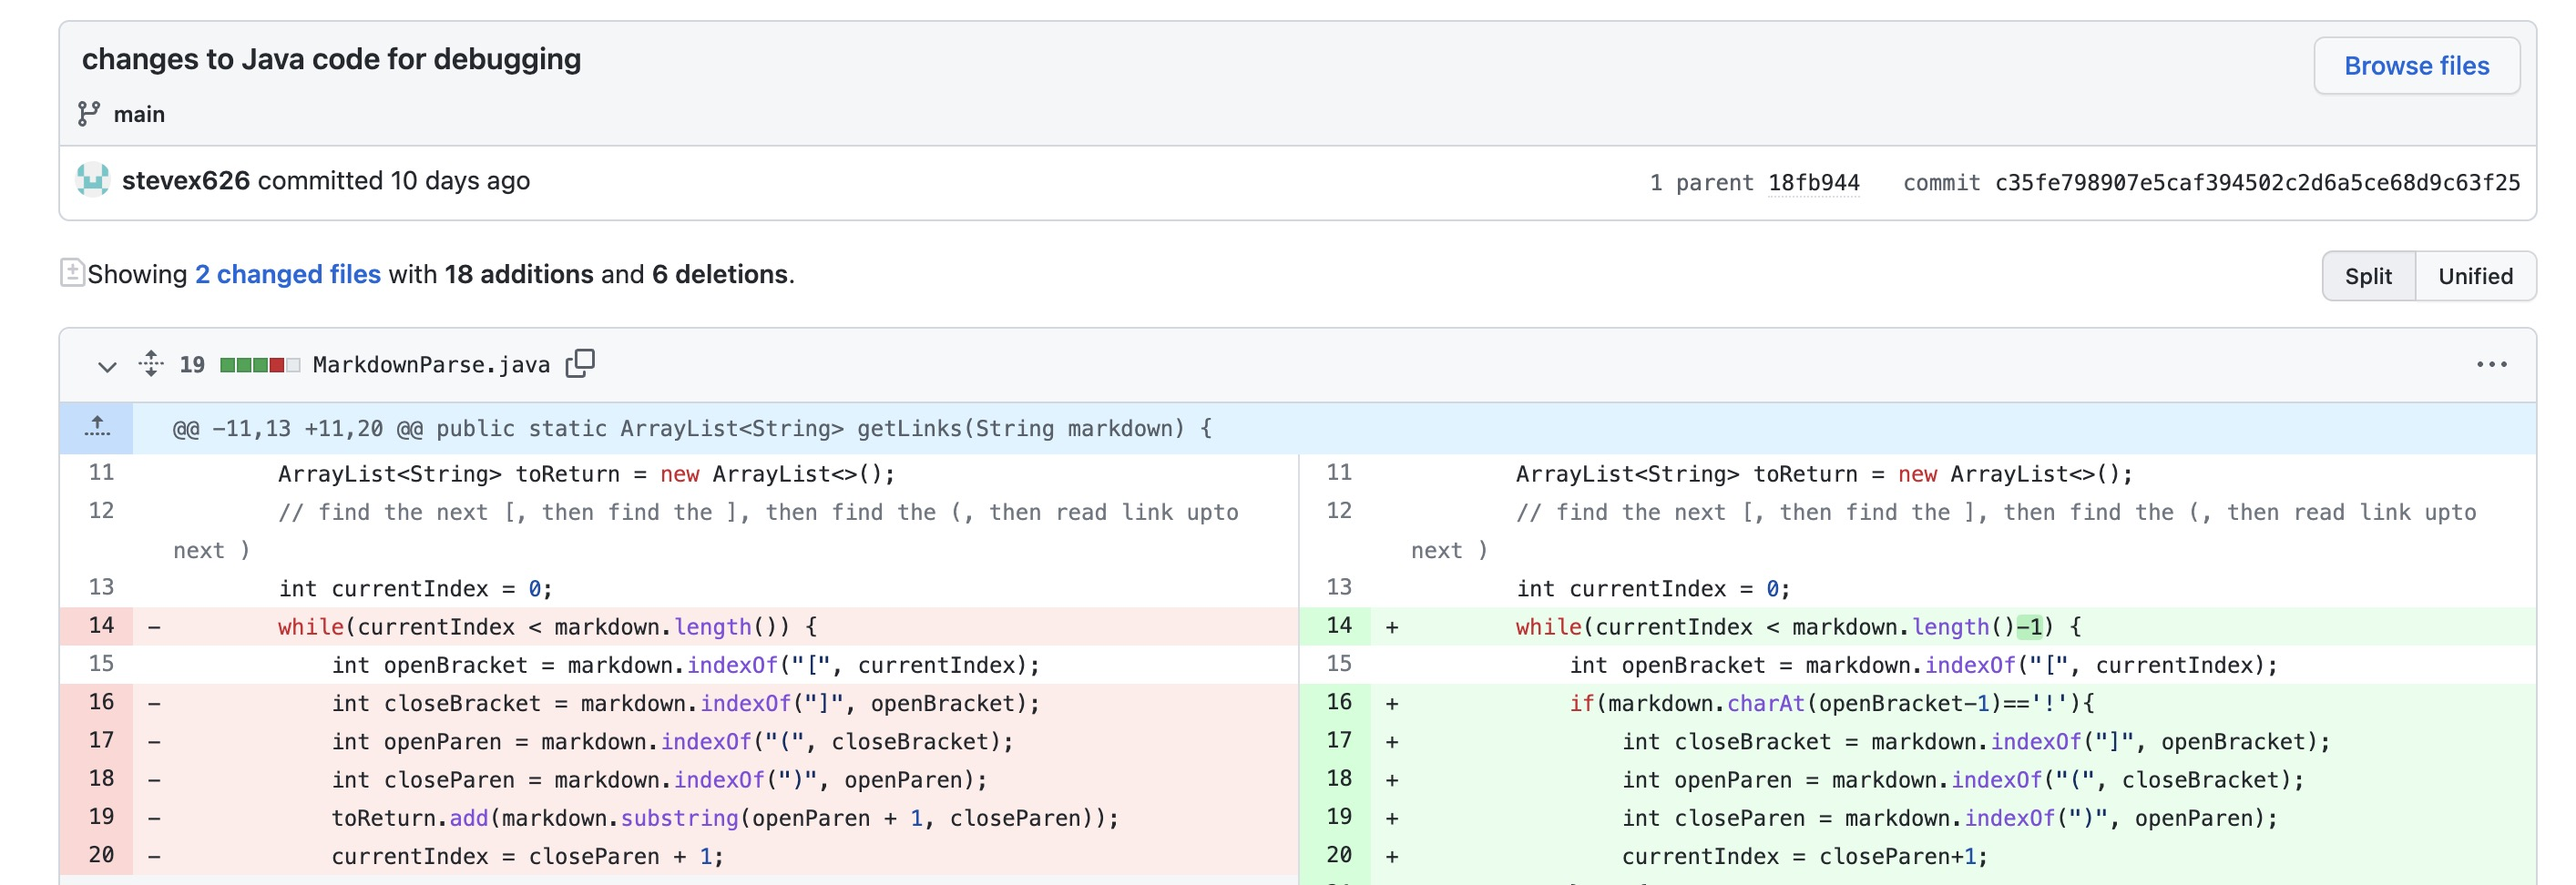
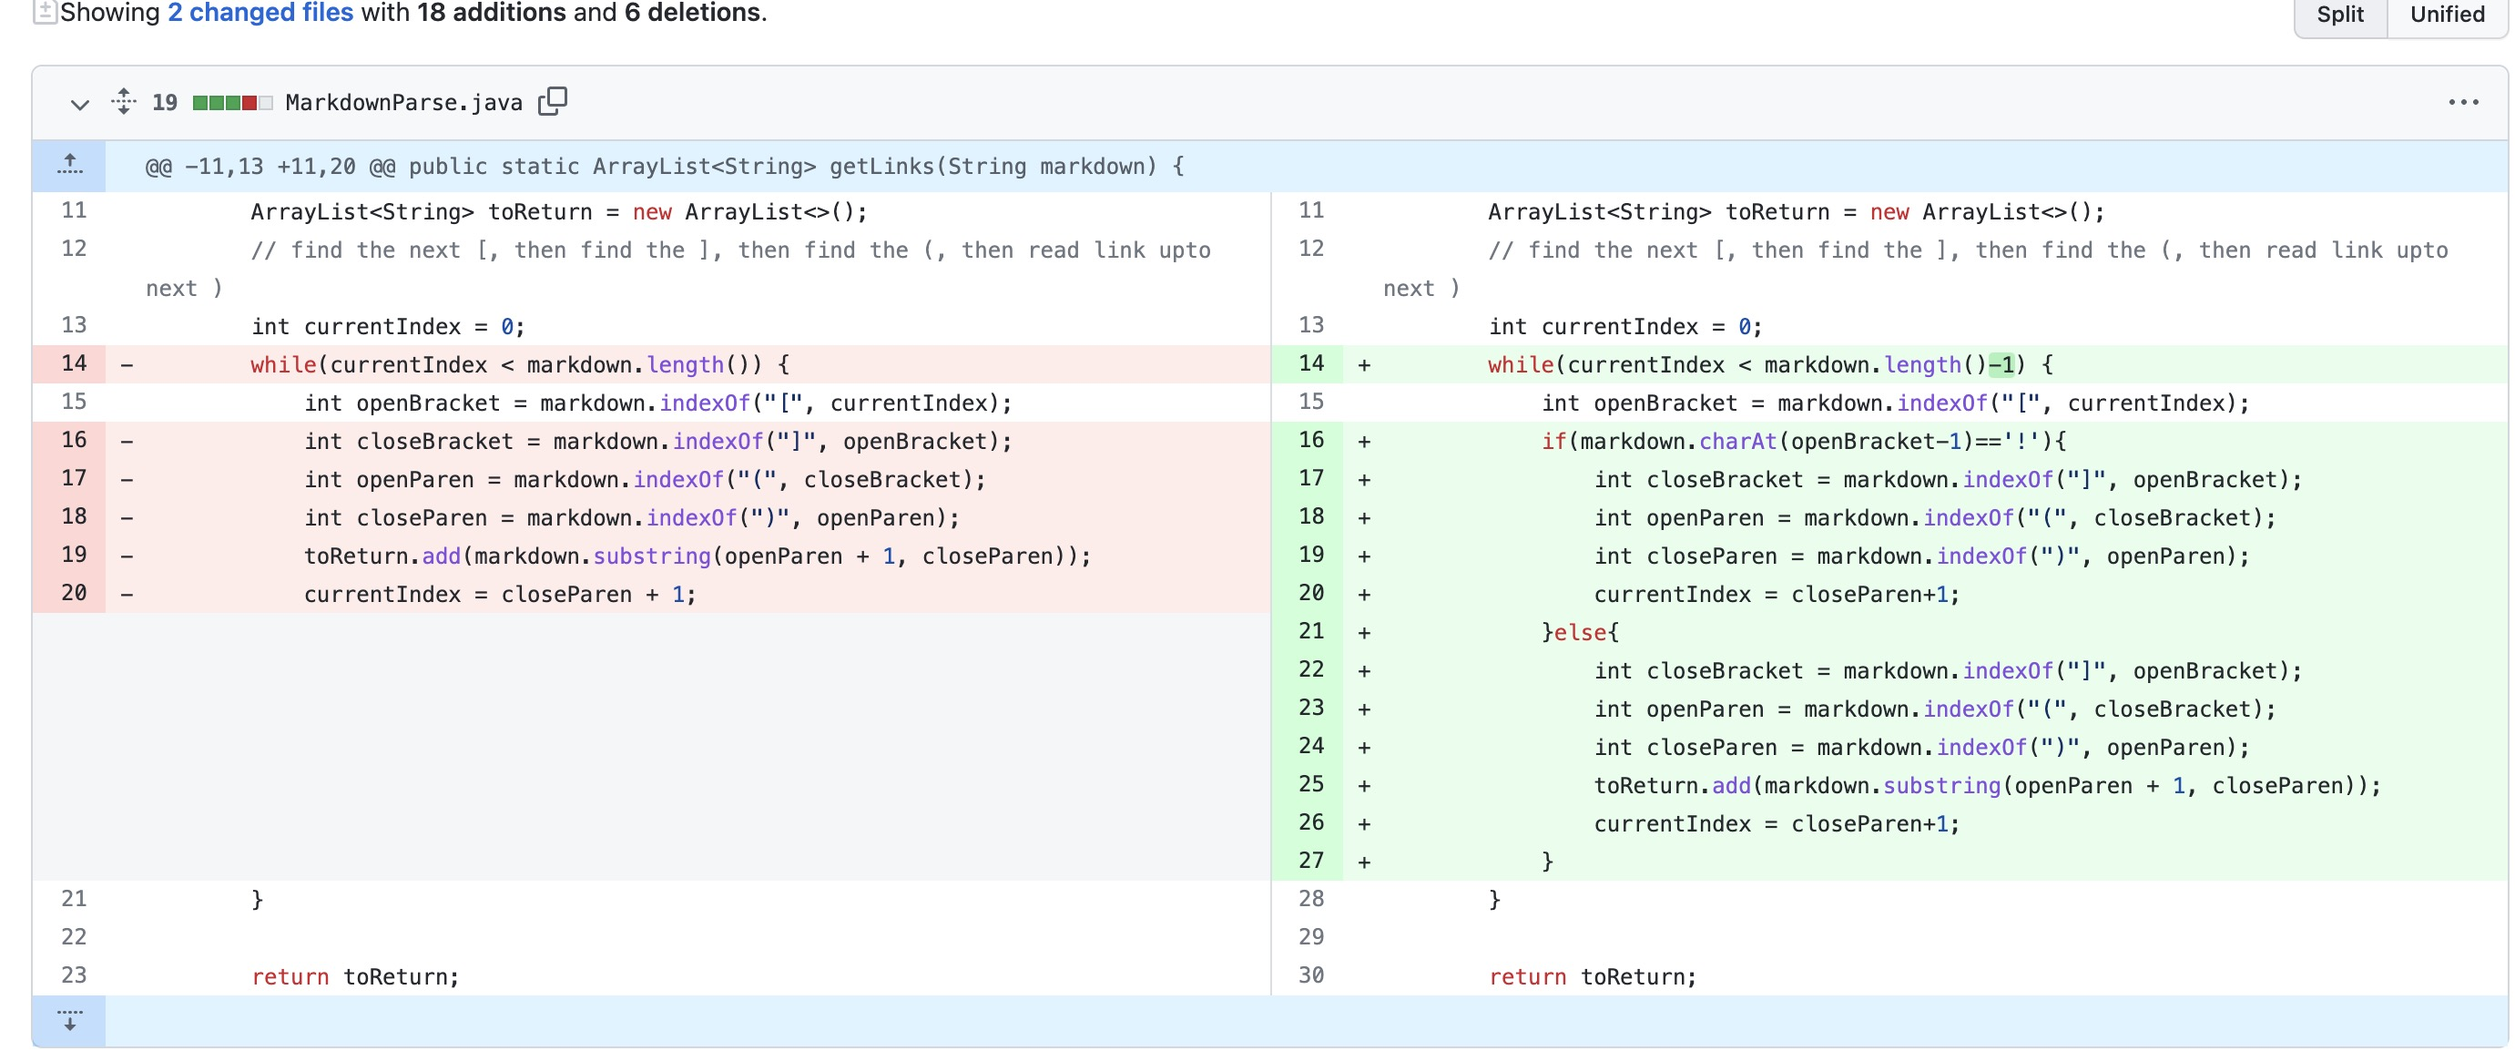
Lab 2 update

diff --git a/lab-report-2-week-4.md b/lab-report-2-week-4.md
@@ -1,7 +1,32 @@
 # CSE 15L Week 4 Lab Report 2
 
 ## Code Change #1
-
+### The first test case contains some images in it
+![image](lab2.jpg)
 * Screenshot of the code change
 ![image](lab1.jpg)
-* ![Link]() to the failure-inducing input
+* [Link](https://github.com/stevex626/markdown-parser/blob/main/test-file3.md) to the failure-inducing input
+* Screen shot of the symptom
+![image](lab3.jpg)
+* The *failure-inducing input* in this test case is an image input. As shown above, we should expect the output to be `[some-thing.html]`, however the actual output we get has a *symptom*, which means that it has a wrong output of `[https://something.com, some-thing.html, https://something.com]`. The bug is at line **14** as we didn't add any condition to check whether the input is an image or not; to fix the bug, we add ` if(markdown.charAt(openBracket-1)=='!')` after line 14 to check the condition of the input.
+
+
+## Code Change #2
+### The third test case contains a random text line at the end (after a blank line)
+![image](lab6.jpg)
+* Screenshot of the code change
+![image](lab7.png)
+* [Link](https://github.com/stevex626/markdown-parser/blob/main/infiniteLoop.md) to the failure-inducing input
+* Screen shot of the symptom
+![image](lab8.png)
+* The *failure-inducing input* in this test case is adding a blank line at the end of the file. The *symptom* is that the program did not have the correct output and instead it produces a `StringIndexOutOfBoundsException`. The bug is at line 16, where we forget to make the while-loop ends before the blank line. 
+
+## Code Change #3
+### The second test case contains a blank line at the end
+![image](lab4.png)
+* Screenshot of the code change
+![image](lab1.jpg)
+* [Link](https://github.com/stevex626/markdown-parser/blob/main/test-file2.md) to the failure-inducing input
+* Screen shot of the symptom
+![image](lab5.jpg)
+* The *failure-inducing input* in this test case is adding a random line of text at the end of the file. The *symptom* is that the program did not have the correct output and instead it also produces a `StringIndexOutOfBoundsException`. The bug is also at line 16, where we need to add one more condition to check whether there is something after the blank line (check if it is a link or something else); if it is a link, keep executing the loop, terminate otherwise.
